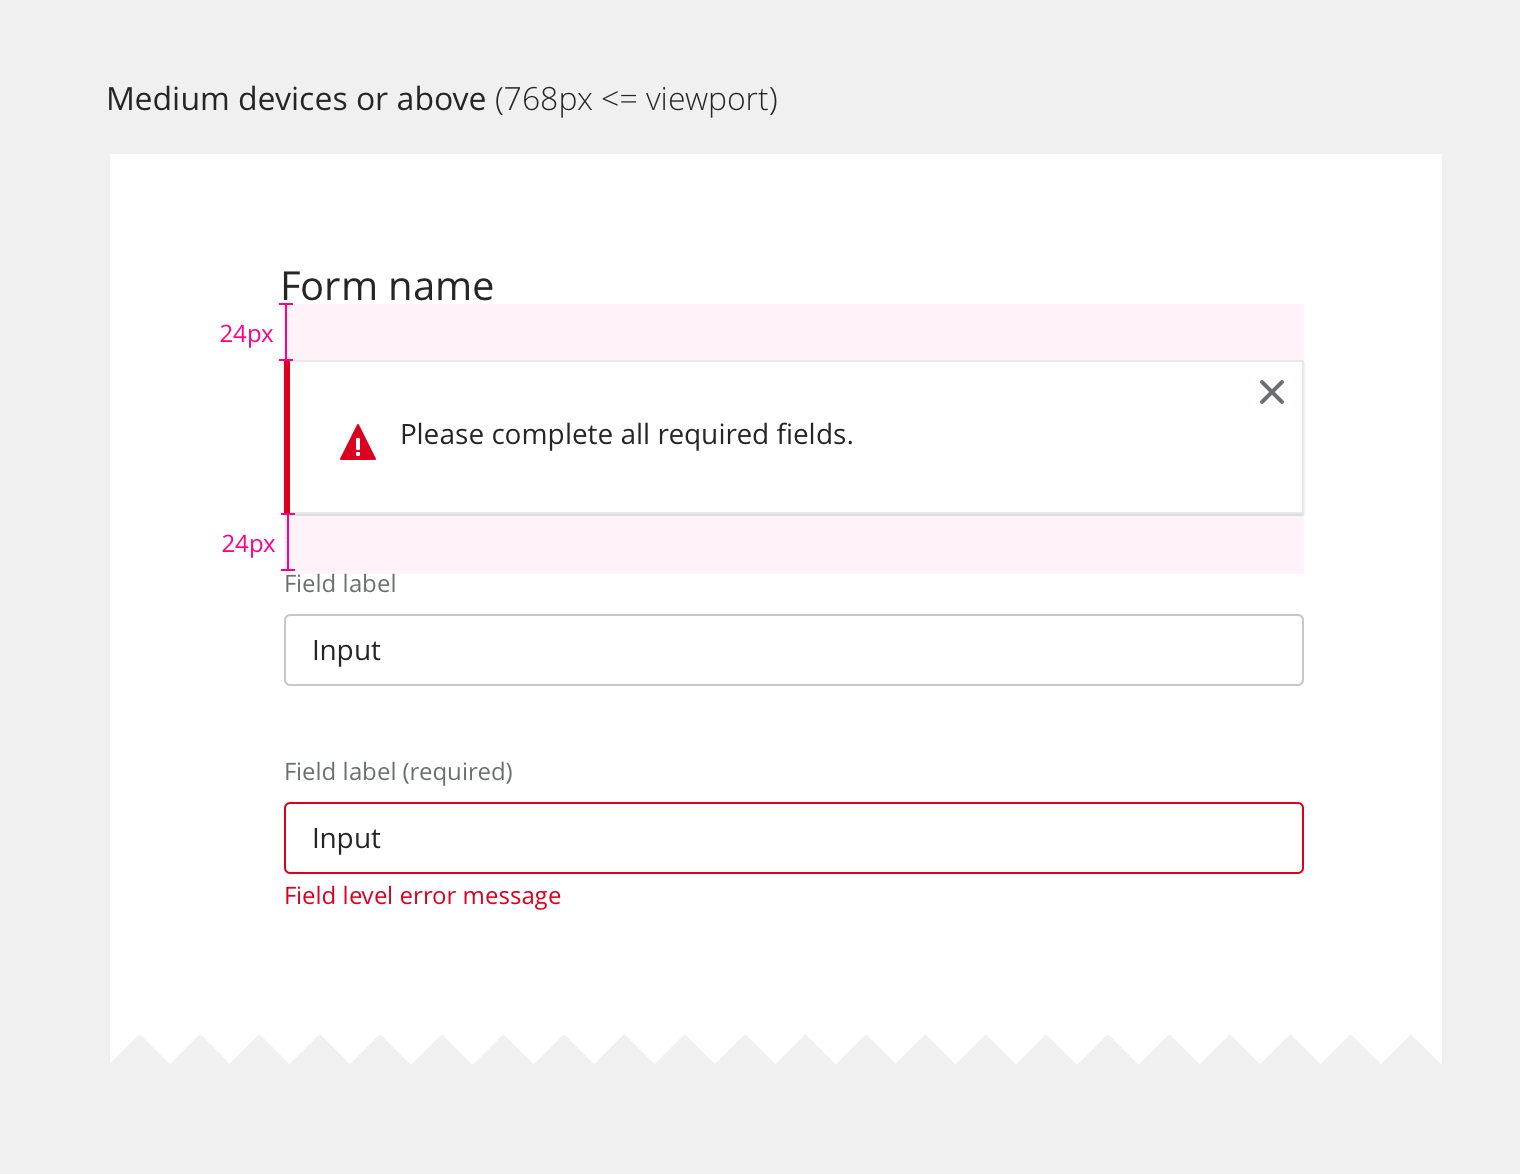
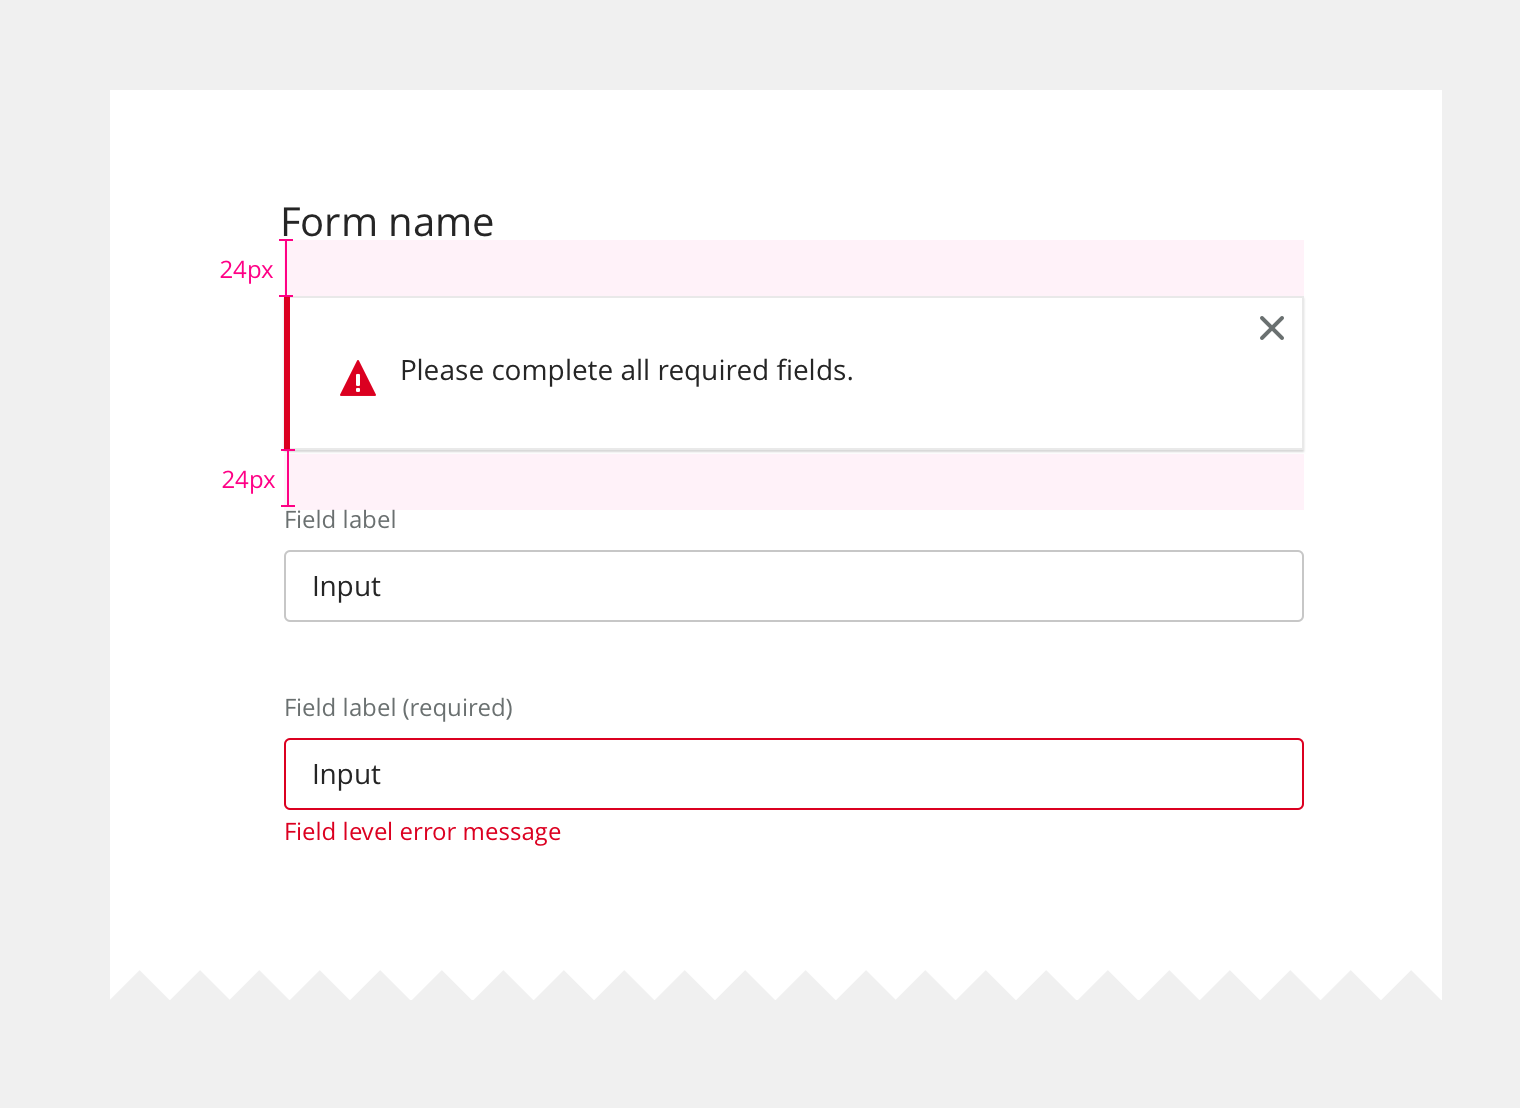
Delete responsive spec

diff --git a/c/forms/v1.1.0-beta.1/index.md b/c/forms/v1.1.0-beta.1/index.md
@@ -55,7 +55,7 @@ blocks:
       ### Form instructions
       Instructions for filling out the form.
 
-      ### Alert messages
+      ### Alert message
       See error handling for more details.
 
       ### Input fields
@@ -88,7 +88,7 @@ blocks:
 
   - type: two column
     text: |
-      Mobile responsive is sharing the same spec as the desktop version. Except that it is one column style only.
+      Mobile responsive is sharing the same spec as the desktop version. Except that it is one column style only. All the input fields will be stacked and cover 100% of the form width.
 
     contents:
     - type: narrow image
@@ -123,7 +123,7 @@ blocks:
       Typography
       : - Form name is [Section UI Heading](/design/c/typography/v2.0.0-beta.7/#rd-ui-headings-section-basic), defaults to basic
 
-      Spacing - Medium devices or above
+      Spacing
       : - 36px between Form Name and first input field
         - 36px between all inputs (this includes space dedicated for one line of error text)
         - 52px between the last input and the Next/Submit button
@@ -131,9 +131,6 @@ blocks:
         - For multiple sections form, 16px above horizontal line and 26px below.
         - For form with alert, 24px above and below the alert and form title/first input field.
         - For form with formation text, 24px above and below the information text and form title/first input field.
-
-      Spacing - Small and extra small devices
-      : - Sharing same spec as the medium devices.
 
       Horizontal line
       : - 1px [Concrete](/design/c/colors/v2.1.0/#rd-concrete)
@@ -152,11 +149,11 @@ blocks:
         src: ./assets/redlines_form_error.png
       - type: wide image
         src: ./assets/redlines_form_fancy.png
-      - type: wide image
-        src: ./assets/redlines_form_mobile.png
-
 
 changelog:
+  - version: 1.1.0-beta.1
+    changes: |
+      - UPDATED: Delete responsive spec
   - version: 1.0.0-beta.4
     changes: |
       - UPDATED: Change X-large buttons to large buttons
